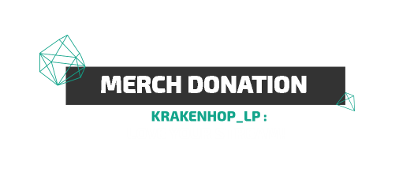
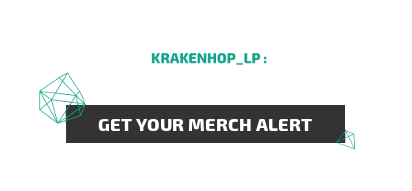
Improved gifs and some graphics + added proper scroll events + replaced texts

Changed region(s): [[0.0874, 0.1832, 0.8738, 0.7853]]

diff --git a/index.html b/index.html
@@ -16,7 +16,7 @@
             <div class="top-bar-left">
                 <ul class="menu">
                     <li class="border-white-right"><a class="link-logo" href="#"><img class="logo-pixelcotton" src="img/logo_pixelcotton.png"></img></a></li>
-                    <li><a href="#">STREAMMERCH PLUGIN</a></li>
+                    <li><a href="#">REALTIME DONATION PLUGIN</a></li>
                 </ul>
             </div>
         </div>
@@ -29,7 +29,7 @@
 
         <div class="row large-8 medium-12 small-12 centered stream-video-container">
             <div class="row large-8 medium-12 small-12 centered stream-video-overlay">
-                <img class="notification-t-shirt" src="img/shirtanim_glitch.gif"></img>
+                <img class="notification-t-shirt" src="img/shirtanim_glitch_small.gif"></img>
                 <img class="notification-headline" src="img/alert.png"></img>
             </div>
             <div class="row large-8 medium-12 small-12 centered stream-video-darken"></div>
@@ -49,9 +49,9 @@
             <div class="small-12 large-8 medium-12 centered column">
                 <ul class="menu">
                     <li class="border-white-right"><a class="link-logo" href="#"><img class="logo-stream-merch" src="img/stream_merch.png"></img></a></li>
-                    <li><a href="#">PLUGIN</a></li>
-                    <li class="active"><a href="#">INSTALL</a></li>
-                    <li><a href="#">FEATURES</a></li>
+                    <li><a id="menubutton-plugin" href="#">PLUGIN</a></li>
+                    <li class="active"><a id="menubutton-service" href="#">SERVICE</a></li>
+                    <li><a id="menubutton-features" href="#">FEATURES</a></li>
                 </ul> 
             </div>
             <div class="small-0 medium-0 large-2 hide-for-small-only hide-for-medium-only column">
@@ -65,9 +65,9 @@
             <div class="large-2 column forced-column hide-for-medium-only hide-for-small-only"></div>
             <div class="large-8 column hero-section hero-section-revolution">
                 <div class="column large-6 forced-column bottom-textbox left-textbox align-center">
-                    <h2 class="align-left">REVOLUTION OF GAMING</h2>
+                    <h2 class="align-left">DONATING REVOLUTIONIZED</h2>
                     <p class="align-left">
-                    Lorem ipsum dolor sit amet, consetetur sadipscing elitr, sed diam nonumy eirmod tempor invidunt ut labore et dolore magna aliquyam erat, sed diam voluptua. At vero eos et accusam et justo duo dolores et ea rebum.
+                        The days of nameless, impersonal donating are gone. Enter StreamMerch, the revolutionary new plugin that gives your fans and followers a whole new way to show you some love. Seamlessly sync your free merch Shop with your stream, and receive a custom-created, personalized message directly on your screen each time a fan makes a purchase. Stream-themed merch is reinventing the way your fans connect with you. This free, ground-breaking new service breathes new life into the donation game.
                     </p>
                     <a href="#" class="button">SUBSCRIBE</a>
                 </div>
@@ -75,29 +75,29 @@
             <div class="large-2 column forced-column hide-for-medium-only hide-for-small-only"></div>
         </div>
 
-        <div class="row large-12 small-12 medium-12 lower-main-container collapse">
+        <div class="row large-12 small-12 medium-12 lower-main-container collapse" id="area-service">
             <div class="large-2 column forced-column hide-for-medium-only hide-for-small-only"></div>
             <div class="large-8 medium-12 small-12 column hero-section hero-section-points">
                 <div class="large-4 medium-4 small-4 column text-center forced-column points">
-                    <h3>100&#37; FREE</h3>
+                    <h3>100&#37; FREE SERVICE</h3>
                     <i class="fa fa-5x fa-thumbs-up white" aria-hidden="true"></i>
-                    <p>Lorem ipsum dolor sit amet, consetetur sadipscing elitr</p>
+                    <p>Experience a new kind of fan love at never any cost to you.</p>
                 </div>
                 <div class="large-4 medium-4 small-4 column text-center forced-column points">
-                    <h3>EASY SETUP</h3>
+                    <h3>SIMPLE SETUP</h3>
                     <i class="fa fa-5x fa-television white" aria-hidden="true"></i>
-                    <p>Lorem ipsum dolor sit amet, consetetur sadipscing elitr</p>
+                    <p>Seamlessly integrate our plugin with your stream in a matter of clicks.</p>
                 </div>
                 <div class="large-4 medium-4 small-4 column text-center forced-column points">
                     <h3>INTERACTIVE</h3>
                     <i class="fa fa-5x fa-hand-pointer-o white" aria-hidden="true"></i>
-                    <p>Lorem ipsum dolor sit amet, consetetur sadipscing elitr</p>
+                    <p>A new and uniquely-amazing way to interact with your fans.</p>
                 </div>
             </div>
             <div class="large-2 column forced-column hide-for-medium-only hide-for-small-only"></div>
         </div>
 
-        <div class="row large-12 small-12 medium-12 lower-main-container collapse">
+        <div class="row large-12 small-12 medium-12 lower-main-container collapse" id="area-features">
             <div class="large-2 column forced-column hide-for-medium-only hide-for-small-only"></div>
             <div class="orbit large-8 medium-12 small-12 column" role="region" aria-label="Presentation Container" data-orbit>
                 <div class="orbit-wrapper">
@@ -105,9 +105,9 @@
                         <li class="is-active orbit-slide">
                             <figure class="orbit-figure">
                                 <div class="column large-6 medium-6 small-6 top-textbox left-textbox align-center">
-                                    <h2 class="align-left">GROW YOUR CHANNEL</h2>
+                                    <h2 class="align-left">EARN MONEY</h2>
                                     <p class="align-left">
-                                    Lorem ipsum dolor sit amet, magna aliquyam erat, sed diam voluptua. At vero eos et accusam et justo duo dolores et ea rebum. Lorem ipsum dolor sit amet, consetetur sadipscing elitr, sed diam nonumy eirmod tempor invidunt ut labore et dolore magna aliquyam erat, sed diam voluptua. At vero eos et accusam et justo duo dolores et ea rebum.
+                                        With the new StreamMerch plugin, your fans can donate in a new and exciting way. In a matter of clicks, you can link your stream with your exclusive merch donation platform, and get realtime love from your fans with each purchase. Create stream-related merch, and get personalized messages from your fans directly on your stream! Get started today. It's free!
                                     </p>
                                     <a href="#" class="button">SUBSCRIBE</a>
                                 </div>
@@ -117,11 +117,11 @@
                         <li class="orbit-slide">
                             <figure class="orbit-figure">
                                 <div class="column large-6 medium-6 small-6 top-textbox left-textbox align-center">
-                                    <h2 class="align-left">GROW YOUR CHANNEL</h2>
+                                    <h2 class="align-left">STRENGTHEN THE CONNECTION TO YOUR FANS</h2>
                                     <p class="align-left">
-                                    Lorem ipsum dolor sit amet, magna aliquyam erat, sed diam voluptua. At vero eos et accusam et justo duo dolores et ea rebum. Lorem ipsum dolor sit amet, consetetur sadipscing elitr, sed diam nonumy eirmod tempor invidunt ut labore et dolore magna aliquyam erat, sed diam voluptua. At vero eos et accusam et justo duo dolores et ea rebum.
+                                        Our revolutionary new plugin lets you connect to your fans in a way never seen before! Set up your own StreamMerch Shop, and connect directly with your fans through the power of merchandise. Every time a purchase is made, your fans can send you a personal message that appears directly on your live stream. Fan love and appreciation, live and in color!
                                     </p>
-                                    <a href="#" class="button">Subscribe</a>
+                                    <a href="#" class="button">SUBSCRIBE</a>
                                 </div>
                                 <img class="orbit-image orbit-picture-half" src="img/grow_channel_bg.jpg" alt="Space">
                             </figure>
@@ -129,11 +129,11 @@
                         <li class="orbit-slide">
                             <figure class="orbit-figure">
                                 <div class="column large-6 medium-6 small-6 top-textbox left-textbox align-center">
-                                    <h2 class="align-left">GROW YOUR CHANNEL</h2>
+                                    <h2 class="align-left">A NEW SPIN ON YOUR BRAND</h2>
                                     <p class="align-left">
-                                    Lorem ipsum dolor sit amet, magna aliquyam erat, sed diam voluptua. At vero eos et accusam et justo duo dolores et ea rebum. Lorem ipsum dolor sit amet, consetetur sadipscing elitr, sed diam nonumy eirmod tempor invidunt ut labore et dolore magna aliquyam erat, sed diam voluptua. At vero eos et accusam et justo duo dolores et ea rebum.
+                                        This isn't your run of the mill donation program. Why not connect with your fans in a way they'll truly cherish and that you'll really appreciate? With StreamMerch, your fans can donate to your stream through the purchase of branded merch. Money donations are here one second, forgotten the next. Merchandise is the gift that keeps on giving.
                                     </p>
-                                    <a href="#" class="button">Subscribe</a>
+                                    <a href="#" class="button">SUBSCRIBE</a>
                                 </div>
                                 <img class="orbit-image orbit-picture-half" src="img/grow_channel_bg.jpg" alt="Space">
                             </figure>
@@ -210,6 +210,42 @@
                     firstContainer.style.marginTop = "";
                 }
             }, 1);
+
+            var menuButtonPlugin = document.getElementById("menubutton-plugin");
+            menuButtonPlugin.onclick = function (e) {
+                $("html,body").animate({
+                    scrollTop : $(firstContainer).offset().top
+                }, 250, 'swing');
+                
+                $("[id^=menubutton]").parent().removeClass("active");
+                $(this).parent().addClass("active");
+
+                e.preventDefault();
+            };
+
+            var menuButtonService = document.getElementById("menubutton-service");
+            var service = document.getElementById("area-service");
+            menuButtonService.onclick = function (e) {
+                $("html,body").animate({
+                    scrollTop : $(service).offset().top - 80
+                }, 200, 'swing');
+
+                $("[id^=menubutton]").parent().removeClass("active");
+                $(this).parent().addClass("active");
+                e.preventDefault();
+            };
+
+            var menuButtonFeatures = document.getElementById("menubutton-features");
+            var features= document.getElementById("area-features");
+            menuButtonFeatures .onclick = function (e) {
+                $("html,body").animate({
+                    scrollTop : $(features).offset().top
+                }, 200, 'swing');
+
+                $("[id^=menubutton]").parent().removeClass("active");
+                $(this).parent().addClass("active");
+                e.preventDefault();
+            };
         </script>
     </body>
 </html>

diff --git a/css/custom.css b/css/custom.css
@@ -68,17 +68,17 @@ video.stream-video {
 }
 
 .notification-t-shirt {
-    width: 20%;
+    width: 15%;
     position: absolute;
     top: 20%;
-    left: 28%;
+    left: 30%;
 }
 
 .notification-headline {
-    width: 35%;
+    width: 30%;
     position: absolute;
-    top: 55%;
-    left: 21%;
+    top: 48%;
+    left: 22.5%;
 }
 
 .menu .active > a {
@@ -258,7 +258,7 @@ p {
 }
 
 .bottom-textbox {
-    padding-top: 250px;
+    padding-top: 140px;
 }
 
 .left-textbox {
